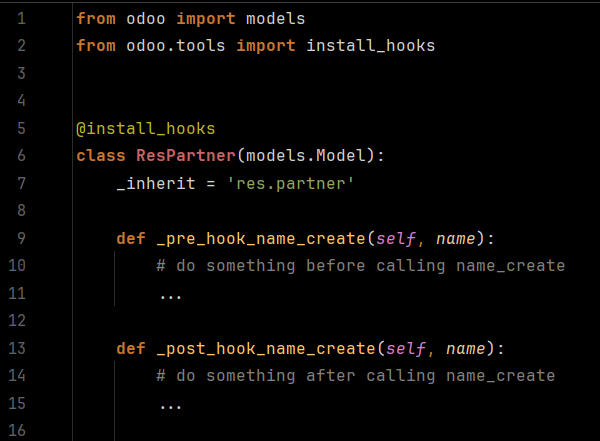
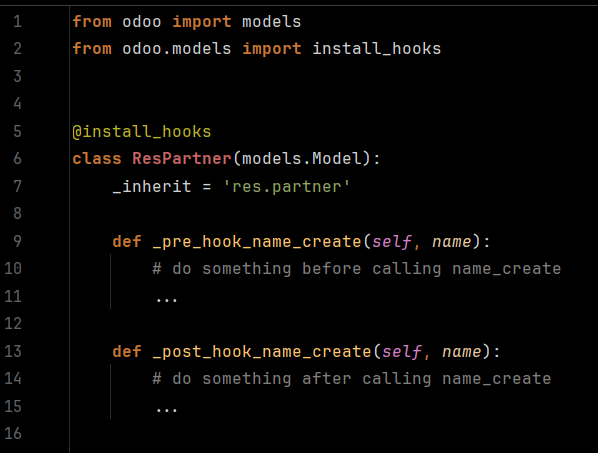
Hook Model Methods 18.0.0.1.1

diff --git a/hook_model_methods/static/description/index.html b/hook_model_methods/static/description/index.html
@@ -68,7 +68,8 @@
         <pre><code style="
     line-height: 20px;
 ">from odoo import models
-from odoo.tools import install_hooks
+# from odoo.tools import install_hooks  # will be deprecated in future versions
+from odoo.models import install_hooks
 
 
 @install_hooks

diff --git a/hook_model_methods/__manifest__.py b/hook_model_methods/__manifest__.py
@@ -1,6 +1,6 @@
 {
     'name': 'Hook Model Methods',
-    'version': '18.0.0.1.0',
+    'version': '18.0.0.1.1',
     'category': 'Tools',
     'summary': 'Custom hook system for Odoo models that eliminates super() calls by injecting pre/post logic cleanly and modularly.',
     'description': """This module introduces a custom hook system for Odoo models, allowing developers to cleanly inject pre/post logic into existing methods, including normal methods, onchange, compute, and more, without overriding via super().

diff --git a/hook_model_methods/example.py b/hook_model_methods/example.py
@@ -1,5 +1,6 @@
 from odoo import models
-from odoo.tools import install_hooks
+# from odoo.tools import install_hooks  # will be deprecated in future versions
+from odoo.models import install_hooks
 
 
 @install_hooks

diff --git a/hook_model_methods/__init__.py b/hook_model_methods/__init__.py
@@ -88,6 +88,7 @@ def _call_with_filtered_args(func, all_args):
 
 
 setattr(tools, 'install_hooks', install_hooks)
+setattr(models, 'install_hooks', install_hooks)
 
 
 class HookInstallerMixin(models.AbstractModel):
